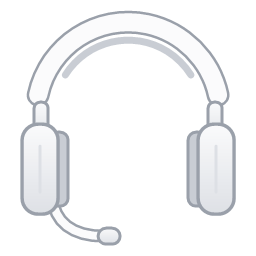
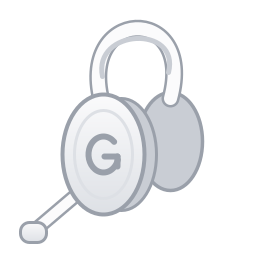
Widget sem borda, fonte mais grossa e ícones novos do G325 e do X11
O aro e o contorno marcavam demais a placa. Porcentagens e nomes passam
para negrito e seminegrito. Os ícones agora lembram os aparelhos: o
G325 de lado com o G na concha e a haste reta do microfone, e o X11
com o vão entre os botões, o botão de DPI, os laterais e a barbatana
da Attack Shark.

Claude-Session: https://claude.ai/code/session_01QYkjyYDJDEsUq2QHqPU6e7

diff --git a/tools/MakePeripherals.cs b/tools/MakePeripherals.cs
@@ -110,114 +110,136 @@ class MakePeripherals
         }
     }
 
+    /// <summary>
+    /// G325 de lado, como nas fotos da Logitech: tiara fina, concha oval com
+    /// a tampa lisa e o G em relevo, a outra concha aparecendo atras e a haste
+    /// curta e reta do microfone saindo da frente da concha esquerda.
+    /// </summary>
     static Bitmap Headset()
     {
         Bitmap b = new Bitmap(256, 256, PixelFormat.Format32bppArgb);
         using (Graphics g = Abrir(b))
         {
-            // microfone primeiro, para a concha do lado esquerdo cobrir a raiz
-            using (GraphicsPath mic = new GraphicsPath())
+            // concha de tras, mais escura e deslocada, so para dar volume
+            using (GraphicsPath tras = new GraphicsPath())
             {
-                mic.AddBezier(52, 196, 54, 222, 72, 236, 104, 236);
-                Faixa(g, mic, 8, Branco);
+                tras.AddEllipse(138, 92, 64, 98);
+                using (SolidBrush br = new SolidBrush(Almofada)) g.FillPath(br, tras);
+                using (Pen pen = new Pen(Contorno, 3.5f)) g.DrawPath(pen, tras);
             }
-            using (GraphicsPath capsula = Arredondado(new RectangleF(98, 228, 22, 16), 8))
-                Corpo(g, capsula, 3);
 
-            // tiara: arco largo branco com a almofada cinza por dentro
+            // tiara: arco fino, da concha de tras ate a da frente
             using (GraphicsPath tiara = new GraphicsPath())
             {
-                tiara.AddArc(36, 22, 184, 184, 192, 156);
-                Faixa(g, tiara, 18, Branco);
+                tiara.AddBezier(102, 104, 74, 6, 196, 2, 170, 98);
+                Faixa(g, tiara, 13, Branco);
             }
             using (GraphicsPath almofada = new GraphicsPath())
-            using (Pen pen = new Pen(Almofada, 7))
+            using (Pen pen = new Pen(Almofada, 5))
             {
                 pen.StartCap = pen.EndCap = LineCap.Round;
-                almofada.AddArc(54, 40, 148, 148, 212, 116);
+                almofada.AddBezier(102, 76, 92, 28, 180, 24, 168, 72);
                 g.DrawPath(pen, almofada);
             }
 
-            // garfos que descem da tiara ate as conchas
-            using (GraphicsPath ge = Arredondado(new RectangleF(34, 102, 14, 40), 6))
-                Corpo(g, ge, 3);
-            using (GraphicsPath gd = Arredondado(new RectangleF(208, 102, 14, 40), 6))
-                Corpo(g, gd, 3);
+            // haste do microfone: reta, saindo da frente e descendo para a boca
+            using (GraphicsPath haste = new GraphicsPath())
+            {
+                haste.AddLine(74, 196, 34, 230);
+                Faixa(g, haste, 10, Branco);
+            }
+            using (GraphicsPath ponta = Arredondado(new RectangleF(20, 222, 26, 20), 9))
+                Corpo(g, ponta, 3);
 
-            // conchas vistas de frente: casco branco e espuma voltada para dentro
-            Concha(g, 22, false);
-            Concha(g, 198, true);
+            // concha da frente: espuma cinza aparecendo atras do casco
+            using (GraphicsPath espuma = new GraphicsPath())
+            {
+                espuma.AddEllipse(86, 98, 70, 112);
+                using (SolidBrush br = new SolidBrush(Almofada)) g.FillPath(br, espuma);
+                using (Pen pen = new Pen(Contorno, 3)) g.DrawPath(pen, espuma);
+            }
+            using (GraphicsPath casco = new GraphicsPath())
+            {
+                casco.AddEllipse(62, 94, 82, 120);
+                Corpo(g, casco, 4);
+            }
+            // tampa lisa por dentro do casco
+            using (GraphicsPath tampa = new GraphicsPath())
+            using (Pen pen = new Pen(Sombra, 3))
+            {
+                tampa.AddEllipse(74, 110, 58, 88);
+                g.DrawPath(pen, tampa);
+            }
+            // o G da Logitech em relevo na tampa
+            using (Pen pen = new Pen(Contorno, 6))
+            {
+                pen.StartCap = pen.EndCap = LineCap.Round;
+                g.DrawArc(pen, 88, 136, 30, 36, 20, 290);
+                g.DrawLine(pen, 117, 156, 104, 156);
+                g.DrawLine(pen, 117, 156, 117, 166);
+            }
         }
         return b;
     }
 
-    static void Concha(Graphics g, float x, bool direita)
-    {
-        RectangleF casco = new RectangleF(x, 124, 36, 90);
-        RectangleF espuma = direita
-            ? new RectangleF(x - 10, 132, 18, 74)
-            : new RectangleF(x + 28, 132, 18, 74);
-
-        using (GraphicsPath p = Arredondado(espuma, 8))
-        {
-            using (SolidBrush br = new SolidBrush(Almofada)) g.FillPath(br, p);
-            using (Pen pen = new Pen(Contorno, 3)) g.DrawPath(pen, p);
-        }
-        using (GraphicsPath p = Arredondado(casco, 16))
-            Corpo(g, p, 3.5f);
-
-        // friso discreto no casco, para nao ficar um bloco liso
-        using (Pen pen = new Pen(Sombra, 3))
-        {
-            pen.StartCap = pen.EndCap = LineCap.Round;
-            float cx = x + 18;
-            g.DrawLine(pen, cx, 146, cx, 192);
-        }
-    }
-
+    /// <summary>
+    /// X11 visto de cima: corpo simetrico e baixo, botoes separados da
+    /// carcaca por um vinco, roda com o botao de DPI logo atras, os dois
+    /// botoes laterais na esquerda e a barbatana da Attack Shark na palma.
+    /// </summary>
     static Bitmap Mouse()
     {
         Bitmap b = new Bitmap(256, 256, PixelFormat.Format32bppArgb);
         using (Graphics g = Abrir(b))
         {
-            // vista de cima: frente mais estreita, traseira cheia
             GraphicsPath corpo = new GraphicsPath();
-            corpo.AddBezier(128, 22, 170, 22, 186, 48, 188, 94);
-            corpo.AddBezier(188, 94, 190, 132, 196, 172, 188, 202);
-            corpo.AddBezier(188, 202, 180, 228, 154, 236, 128, 236);
-            corpo.AddBezier(128, 236, 102, 236, 76, 228, 68, 202);
-            corpo.AddBezier(68, 202, 60, 172, 66, 132, 68, 94);
-            corpo.AddBezier(68, 94, 70, 48, 86, 22, 128, 22);
+            corpo.AddBezier(128, 20, 166, 20, 180, 44, 182, 90);
+            corpo.AddBezier(182, 90, 184, 130, 192, 168, 186, 200);
+            corpo.AddBezier(186, 200, 180, 228, 156, 238, 128, 238);
+            corpo.AddBezier(128, 238, 100, 238, 76, 228, 70, 200);
+            corpo.AddBezier(70, 200, 64, 168, 72, 130, 74, 90);
+            corpo.AddBezier(74, 90, 76, 44, 90, 20, 128, 20);
             corpo.CloseFigure();
+
+            // botoes laterais, saindo um pouco pela borda esquerda
+            using (GraphicsPath l1 = Arredondado(new RectangleF(64, 104, 14, 26), 6)) Corpo(g, l1, 3);
+            using (GraphicsPath l2 = Arredondado(new RectangleF(66, 134, 14, 24), 6)) Corpo(g, l2, 3);
+
             Corpo(g, corpo, 4);
 
-            using (Pen pen = new Pen(Contorno, 2.5f))
+            using (Pen pen = new Pen(Contorno, 3f))
             {
                 pen.StartCap = pen.EndCap = LineCap.Round;
-                // separacao entre os dois botoes
-                g.DrawLine(pen, 128, 25, 128, 104);
-                // fim dos botoes, curvado como a palma
-                g.DrawBezier(pen, 70, 106, 100, 118, 156, 118, 186, 106);
+                // vao entre os dois botoes, aberto como nos mouses leves
+                g.DrawLine(pen, 124, 23, 124, 100);
+                g.DrawLine(pen, 132, 23, 132, 100);
+                // vinco que solta os botoes da carcaca
+                g.DrawBezier(pen, 76, 112, 100, 124, 156, 124, 180, 112);
             }
+            using (SolidBrush br = new SolidBrush(Sombra))
+                g.FillRectangle(br, 125.5f, 24, 5, 76);
 
             // roda de rolagem
-            using (GraphicsPath roda = Arredondado(new RectangleF(119, 46, 18, 38), 8))
+            using (GraphicsPath roda = Arredondado(new RectangleF(119, 40, 18, 36), 8))
             {
                 using (SolidBrush br = new SolidBrush(Escuro)) g.FillPath(br, roda);
                 using (Pen pen = new Pen(Color.FromArgb(0x6E, 0x73, 0x7D), 2))
-                    for (int y = 54; y <= 76; y += 7) g.DrawLine(pen, 122, y, 134, y);
+                    for (int y = 47; y <= 69; y += 7) g.DrawLine(pen, 122, y, 134, y);
+            }
+            // botao de DPI atras da roda
+            using (GraphicsPath dpi = Arredondado(new RectangleF(121, 84, 14, 12), 5))
+            {
+                using (SolidBrush br = new SolidBrush(Almofada)) g.FillPath(br, dpi);
+                using (Pen pen = new Pen(Contorno, 2)) g.DrawPath(pen, dpi);
             }
 
-            // brilho suave na traseira
-            using (GraphicsPath brilho = new GraphicsPath())
+            // barbatana de tubarao na palma
+            using (GraphicsPath fin = new GraphicsPath())
             {
-                brilho.AddEllipse(96, 140, 64, 60);
-                using (PathGradientBrush pg = new PathGradientBrush(brilho))
-                {
-                    pg.CenterColor = Color.FromArgb(160, 255, 255, 255);
-                    pg.SurroundColors = new Color[] { Color.FromArgb(0, 255, 255, 255) };
-                    g.FillPath(pg, brilho);
-                }
+                fin.AddBezier(108, 196, 116, 182, 126, 166, 146, 156);
+                fin.AddBezier(146, 156, 140, 170, 140, 184, 148, 196);
+                fin.CloseFigure();
+                using (SolidBrush br = new SolidBrush(Contorno)) g.FillPath(br, fin);
             }
             corpo.Dispose();
         }

diff --git a/src/BatteryWidget.cs b/src/BatteryWidget.cs
@@ -137,8 +137,8 @@ namespace MhiagosControl
     /// num bitmap e conferir o tamanho de cada formato sem abrir nada na tela.
     ///
     /// O desfoque do que esta atras vem do Windows; tudo o que fica por cima e
-    /// daqui: a tinta do vidro, o brilho do topo, a luz que volta pela base, o
-    /// aro claro nas bordas, os aneis e as barras. Medidas em pixels de 96 dpi,
+    /// daqui: a tinta do vidro, o brilho do topo, a luz que volta pela base,
+    /// os aneis e as barras. Medidas em pixels de 96 dpi,
     /// multiplicadas pela escala da tela.
     /// </summary>
     internal static class PintorDoWidget
@@ -254,9 +254,8 @@ namespace MhiagosControl
         // ---------------- o vidro ----------------
 
         /// <summary>
-        /// A placa de vidro. Pouca tinta, para o desfoque de tras aparecer, e
-        /// luz nas bordas: e o aro claro e o brilho de cima que fazem uma
-        /// mancha translucida parecer vidro grosso, e nao plastico fosco.
+        /// A placa de vidro: a tinta e a luz de cima e de baixo, que fazem uma
+        /// mancha translucida parecer vidro, sem borda desenhada.
         /// </summary>
         internal static void Vidro(Graphics g, RectangleF area, float s, bool escuro, bool fosco, bool nitido, bool sobre)
         {
@@ -299,31 +298,7 @@ namespace MhiagosControl
                 }
                 finally { g.Clip = antes; antes.Dispose(); }
 
-                // aro: claro no canto de cima a esquerda, quase sumindo no meio,
-                // e de novo aceso embaixo a direita, como a borda de um vidro
-                // grosso refletindo a luz dos dois lados
-                float e = 1.25f * s;
-                RectangleF ra = RectangleF.Inflate(r, -e / 2f, -e / 2f);
-                using (GraphicsPath aro = Arredondado(ra, raio - e / 2f))
-                using (LinearGradientBrush b = new LinearGradientBrush(r, Color.White, Color.White, 45f))
-                {
-                    ColorBlend cb = new ColorBlend(4);
-                    cb.Colors = new Color[] {
-                        Color.FromArgb(escuro ? 190 : 230, 255, 255, 255),
-                        Color.FromArgb(escuro ? 36 : 70, 255, 255, 255),
-                        Color.FromArgb(escuro ? 24 : 60, 255, 255, 255),
-                        Color.FromArgb(escuro ? 120 : 200, 255, 255, 255) };
-                    cb.Positions = new float[] { 0f, 0.42f, 0.62f, 1f };
-                    b.InterpolationColors = cb;
-                    using (Pen pen = new Pen(b, e)) g.DrawPath(pen, aro);
-                }
-
-                // contorno escuro bem fino por dentro do aro: separa o vidro de
-                // um papel de parede claro, onde o aro branco sozinho some
-                RectangleF rd = RectangleF.Inflate(r, -2.2f * s, -2.2f * s);
-                using (GraphicsPath dentro = Arredondado(rd, raio - 2.2f * s))
-                using (Pen pen = new Pen(Color.FromArgb(escuro ? 34 : 18, 0, 0, 0), 1f * s))
-                    g.DrawPath(pen, dentro);
+                // sem aro nem contorno: marcavam demais a placa (pedido do Thiago)
             }
         }
 
@@ -613,10 +588,11 @@ namespace MhiagosControl
 
             public Fontes(float s)
             {
-                Pct = Criar("Segoe UI Semibold", 15f * s, FontStyle.Regular);
-                Nome = Criar("Segoe UI", 12f * s, FontStyle.Regular);
-                NomeForte = Criar("Segoe UI Semibold", 13f * s, FontStyle.Regular);
-                Nota = Criar("Segoe UI", 11.5f * s, FontStyle.Regular);
+                // pesos mais grossos: sobre o vidro nitido o traco fino se perde
+                Pct = Criar("Segoe UI", 15f * s, FontStyle.Bold);
+                Nome = Criar("Segoe UI Semibold", 12f * s, FontStyle.Regular);
+                NomeForte = Criar("Segoe UI", 13f * s, FontStyle.Bold);
+                Nota = Criar("Segoe UI Semibold", 11.5f * s, FontStyle.Regular);
             }
 
             /// <summary>Sem o Semibold instalado, o GDI+ cairia numa fonte qualquer; o negrito comum chega perto.</summary>
